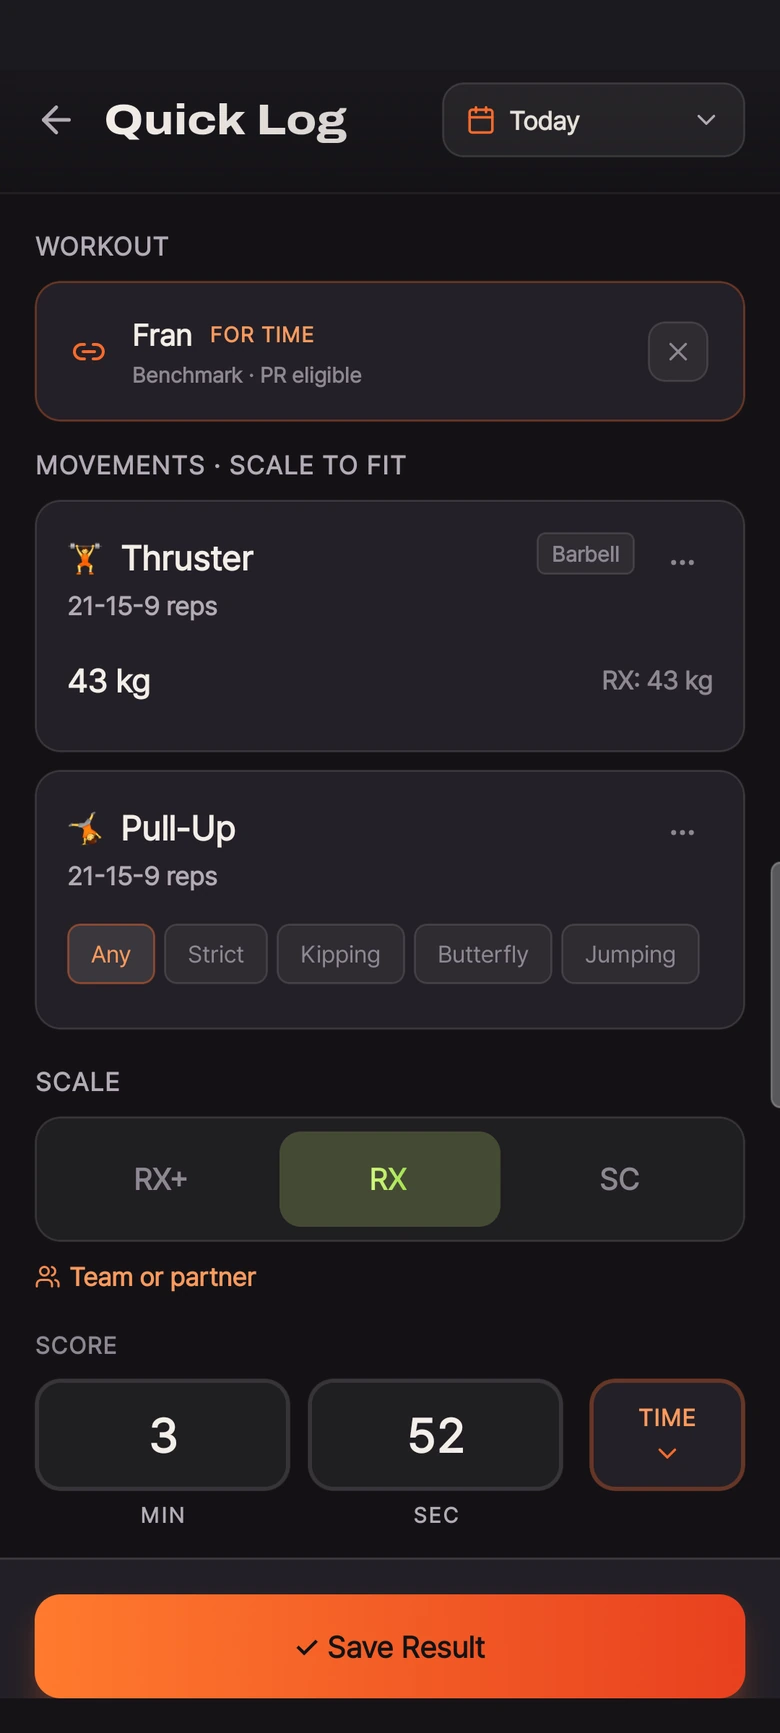
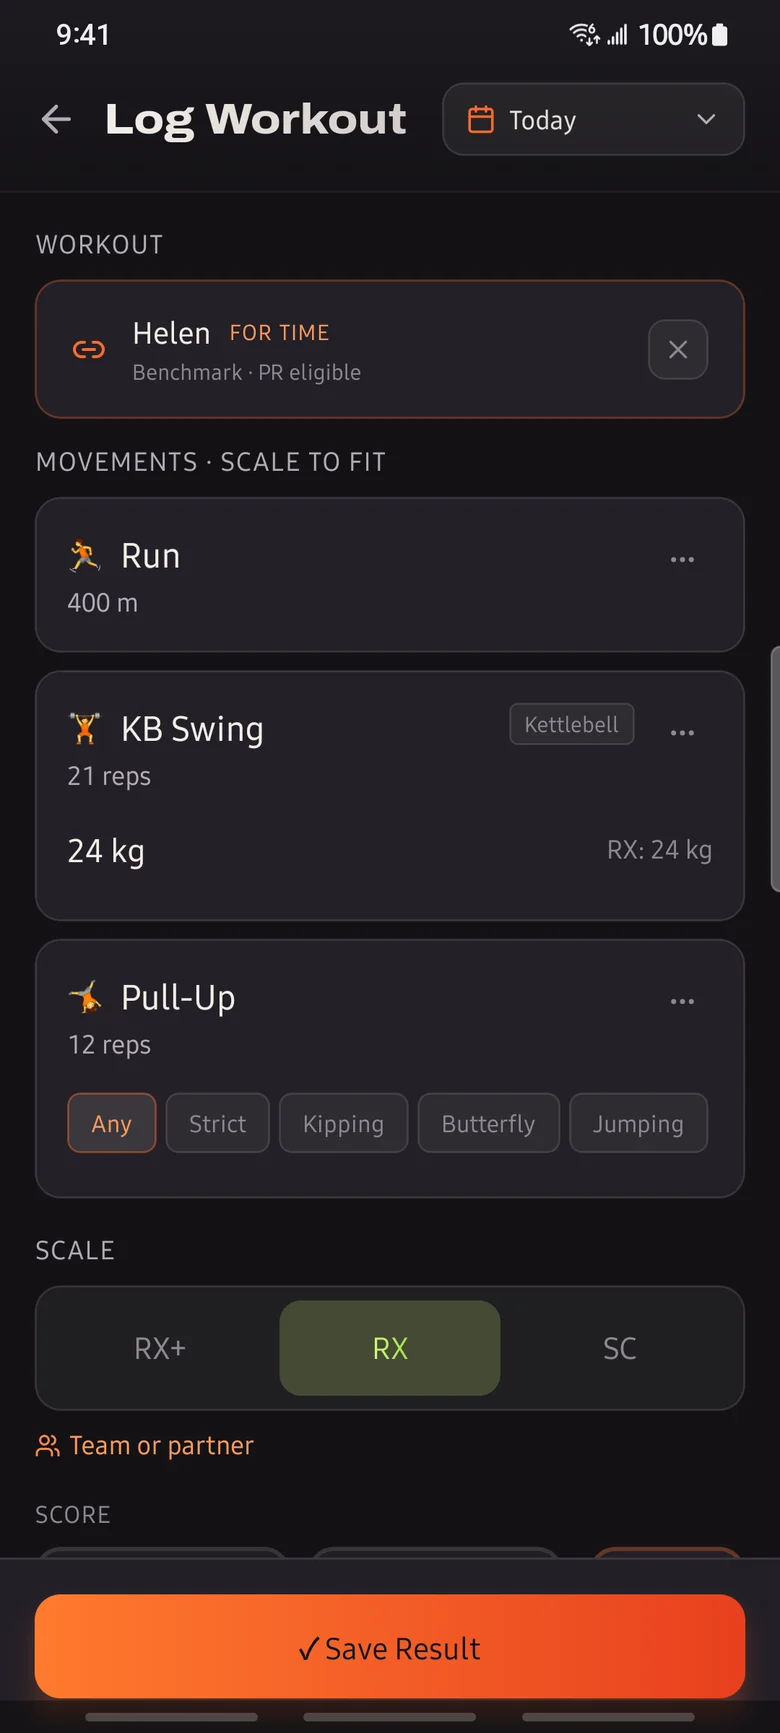
fix: PR 3 review: reword the Your call crash-report line (en/ja/ko); quick-log screenshots show Log Workout with Helen, alt text says Helen
Claude-Session: https://claude.ai/code/session_01WsQYTr48SZW4wHBP9qM4uf

diff --git a/src/i18n/ui.ts b/src/i18n/ui.ts
@@ -99,7 +99,7 @@ const en: Dict = {
       { title: 'Body weight', body: 'Log your body weight and follow the trend.' },
       { title: 'Loads as a % of 1RM', body: "Enter a load as a percentage of a 1RM, even another lift's." },
       { title: 'Your data, as files', body: 'Export a backup (settings included) or a CSV for a spreadsheet, and save either straight to your phone.' },
-      { title: 'Your call', body: 'Crash reports are a switch in Settings and never include your workouts. Erase all data wipes everything Smida keeps on the phone.' },
+      { title: 'Your call', body: 'You can turn crash reports off in Settings; they never include your workouts. Erase all data wipes everything Smida keeps on the phone.' },
       { title: 'Movement icons', body: 'Every movement has an icon, so a long workout is easy to scan.' },
       { title: 'English, 日本語, 한국어', body: 'The app and this site in three languages.' },
     ],
@@ -142,7 +142,7 @@ const en: Dict = {
     alt: {
       home: 'Smida home screen: Log Workout, the weekly goal and streak, the last 12 weeks and latest PRs',
       timer: 'The AMRAP timer running, with the round counter',
-      'quick-log': 'Log Workout for Fran: movements, scale and score',
+      'quick-log': 'Log Workout for Helen: movements, scale and score',
       prbook: 'The PR Book: lifts with their best loads',
       open: 'Open workouts grouped by year, with scores',
     },
@@ -237,7 +237,7 @@ const ja: Dict = {
       { title: '体重の記録', body: '体重を記録して、推移を確認できます。' },
       { title: '1RMの%で重量を', body: '重量は1RMの%で入力できます。別のリフトの1RMを基準にしてもOK。' },
       { title: 'データはファイルで手元に', body: 'バックアップは設定ごと書き出せます。表計算用のCSVも。どちらもスマホに直接保存できます。' },
-      { title: '決めるのは自分', body: 'クラッシュレポートの送信は設定でオン・オフでき、ワークアウトの内容は送りません。「すべてのデータを消去」で、Smidaが端末に残したデータを丸ごと消せます。' },
+      { title: '決めるのは自分', body: 'クラッシュレポートは設定でオフにできます。ワークアウトの内容は含まれません。「すべてのデータを消去」で、Smidaが端末に残したデータを丸ごと消せます。' },
       { title: '種目アイコン', body: '種目ごとにアイコンがあるので、長いメニューもひと目で追えます。' },
       { title: '日本語・English・한국어', body: 'アプリもこのサイトも、3つの言語で使えます。' },
     ],
@@ -280,7 +280,7 @@ const ja: Dict = {
     alt: {
       home: 'Smidaのホーム画面。ワークアウトの記録ボタン、週の目標と連続記録、直近12週、最近の自己ベストが並ぶ',
       timer: 'ラウンド数をカウントしながら進むAMRAPタイマー',
-      'quick-log': 'Franのワークアウトを記録する画面。種目、スケール、スコアを入力',
+      'quick-log': 'Helenのワークアウトを記録する画面。種目、スケール、スコアを入力',
       prbook: 'PRブック。リフトごとのベスト重量の一覧',
       open: '年ごとにまとまったオープンのワークアウトとスコア',
     },
@@ -374,7 +374,7 @@ const ko: Dict = {
       { title: '체중 기록', body: '체중을 기록하고 추이를 확인합니다.' },
       { title: '1RM의 %로 무게 입력', body: '무게를 1RM의 %로 입력할 수 있습니다. 다른 리프트의 1RM을 기준으로 해도 됩니다.' },
       { title: '데이터는 파일로', body: '백업은 설정까지 함께 내보내고, 스프레드시트용 CSV도 만들 수 있습니다. 둘 다 휴대폰에 바로 저장됩니다.' },
-      { title: '선택은 내가', body: '오류 보고서 전송은 설정에서 켜고 끌 수 있고, 운동 기록은 보내지 않습니다. ‘모든 데이터 삭제’로 Smida가 휴대폰에 남긴 데이터를 한 번에 지울 수 있습니다.' },
+      { title: '선택은 내가', body: '오류 보고서는 설정에서 끌 수 있어요. 운동 기록은 포함되지 않아요. ‘모든 데이터 삭제’를 누르면 Smida가 휴대폰에 남긴 데이터를 한 번에 지워요.' },
       { title: '동작 아이콘', body: '동작마다 아이콘이 있어 긴 와드도 한눈에 읽힙니다.' },
       { title: '한국어·English·日本語', body: '앱도, 이 사이트도 3개 언어로 쓸 수 있습니다.' },
     ],
@@ -417,7 +417,7 @@ const ko: Dict = {
     alt: {
       home: 'Smida 홈 화면: 운동 기록 버튼, 주간 목표와 연속 기록, 최근 12주, 최근 PR',
       timer: '라운드 수를 세며 돌아가는 AMRAP 타이머',
-      'quick-log': 'Fran 운동 기록 화면: 동작, 스케일, 점수 입력',
+      'quick-log': 'Helen 운동 기록 화면: 동작, 스케일, 점수 입력',
       prbook: '리프트별 최고 무게가 정리된 PR 북',
       open: '연도별로 묶인 오픈 와드와 점수',
     },
